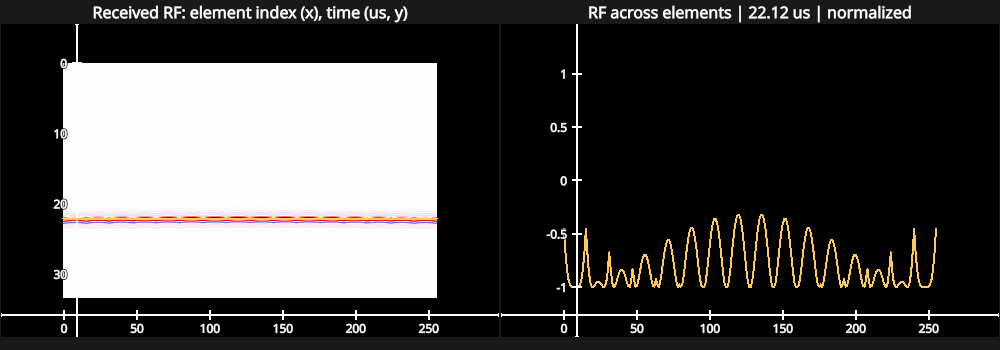
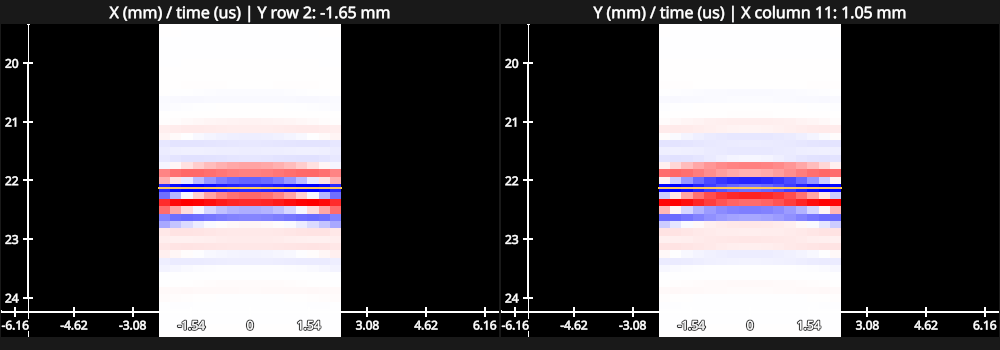
feat: show matrix RF cross-sections with travel-time aspect

diff --git a/examples/_wavefield3d_view.py b/examples/_wavefield3d_view.py
@@ -36,6 +36,7 @@ class WavefieldViewer:
             shape=(3, 2),
             cameras=[camera, "2d", "2d", "2d", "2d", "2d"],
             controller_types=["orbit", "panzoom", "panzoom", "panzoom", "panzoom", "panzoom"],
+            controller_ids=[[0, 1], [2, 3], [4, 4]],
             canvas=canvas or NotebookCanvas(size=(1000, 1050), max_fps=20),
         )
         self.images = []
@@ -153,47 +154,60 @@ class ViewerSlot:
 
 
 class ReceivedRFView:
-    """A fixed-scale channel image and the receive-aperture signal at the current time."""
+    """Orthogonal matrix RF histories with equal lateral and temporal travel-time scales."""
 
-    def __init__(self, image_panel, signal_panel, simulation):
-        self.image_panel, self.signal_panel = image_panel, signal_panel
+    def __init__(self, x_panel, y_panel, simulation):
+        self.panels = (x_panel, y_panel)
         self.times = simulation.rf_times
-        self.rf = np.asarray(simulation.rf / max(float(np.max(np.abs(simulation.rf))), 1e-30), dtype=np.float32)
-        self.elements = np.arange(self.rf.shape[1], dtype=np.float32)
-        image_panel.title = "Received RF: element index (x), time (us, y)"
-        image = image_panel.add_image(self.rf, cmap="bwr", vmin=-1, vmax=1)
-        image.scale = (1, (self.times[1] - self.times[0]) * 1e6, 1)
-        image.offset = (0, self.times[0] * 1e6, 0)
-        self.cursor = image_panel.add_line(
-            np.array([[-0.5, 0, 1], [len(self.elements) - 0.5, 0, 1]], dtype=np.float32),
-            colors="#ffc857",
-            thickness=2,
-        )
-        self.signal = signal_panel.add_line(
-            np.column_stack([self.elements, np.zeros_like(self.elements)]),
-            colors="#ffc857",
-            thickness=2,
-        )
+        nx, ny = simulation.matrix_shape
+        self.sound_speed = simulation.sound_speed
+        peak = max(float(np.max(np.abs(simulation.rf))), 1e-30)
+        self.rf = np.asarray(simulation.rf / peak, dtype=np.float32).reshape(len(self.times), ny, nx)
+        centers = simulation.elements.reshape(ny, nx, 3)
+        self.axes = (centers[0, :, 0], centers[:, 0, 1])
+        self.images, self.cursors, self.bounds = [], [], []
+        for axis, panel in zip(self.axes, self.panels, strict=True):
+            positions = axis / self.sound_speed * 1e6
+            step = positions[1] - positions[0]
+            image = panel.add_image(np.zeros((len(self.times), len(axis)), np.float32), cmap="bwr", vmin=-1, vmax=1)
+            image.scale = (step, (self.times[1] - self.times[0]) * 1e6, 1)
+            image.offset = (positions[0], self.times[0] * 1e6, 0)
+            bounds = (positions[0] - step / 2, positions[-1] + step / 2)
+            cursor = panel.add_line(
+                np.array([[bounds[0], 0, 1], [bounds[1], 0, 1]], dtype=np.float32),
+                colors="#ffc857",
+                thickness=2,
+            )
+            panel.axes.x.tick_format = self.format_mm
+            self.images.append(image)
+            self.cursors.append(cursor)
+            self.bounds.append(bounds)
+        self.select((ny - 1) // 2, (nx - 1) // 2)
+
+    def format_mm(self, value, minimum, maximum):
+        """Label travel-time coordinates with their physical position in millimeters."""
+        return f"{value * self.sound_speed * 1e-3:.4g}"
+
+    def select(self, row, column):
+        """Select a Y row and X column without changing normalization or camera state."""
+        if not 0 <= row < self.rf.shape[1] or not 0 <= column < self.rf.shape[2]:
+            raise ValueError("RF row or column index out of range")
+        self.row, self.column = row, column
+        self.images[0].data = np.ascontiguousarray(self.rf[:, row, :])
+        self.images[1].data = np.ascontiguousarray(self.rf[:, :, column])
+        self.panels[0].title = f"X (mm) / time (us) | Y row {row}: {self.axes[1][row] * 1000:.2f} mm"
+        self.panels[1].title = f"Y (mm) / time (us) | X column {column}: {self.axes[0][column] * 1000:.2f} mm"
 
     def fit(self):
-        """Use independent channel/time scales; RF amplitude stays fixed over playback."""
-        for panel in (self.image_panel, self.signal_panel):
-            panel.camera.maintain_aspect = False
-        self.image_panel.camera.show_rect(-0.5, len(self.elements) - 0.5, 0, self.times[-1] * 1e6)
-        self.signal_panel.camera.local.scale_y = 1
-        self.signal_panel.camera.show_rect(-0.5, len(self.elements) - 0.5, -1.1, 1.1)
+        """Show full histories with shared bounds and an undistorted travel-time aspect."""
+        left = min(bound[0] for bound in self.bounds)
+        right = max(bound[1] for bound in self.bounds)
+        dt = (self.times[1] - self.times[0]) * 1e6
+        for panel in self.panels:
+            panel.camera.maintain_aspect = True
+            panel.camera.show_rect(left, right, self.times[0] * 1e6 - dt / 2, self.times[-1] * 1e6 + dt / 2)
 
     def update(self, time):
-        """Interpolate the displayed channel snapshot; never modify the simulated RF."""
-        index = int(np.searchsorted(self.times, time, side="right"))
-        if time < self.times[0] or time > self.times[-1]:
-            values = np.zeros_like(self.elements)
-        elif index == len(self.times):
-            values = self.rf[-1]
-        else:
-            before = max(0, index - 1)
-            weight = (time - self.times[before]) / (self.times[index] - self.times[before])
-            values = (1 - weight) * self.rf[before] + weight * self.rf[index]
-        self.cursor.data[:, 1] = time * 1e6
-        self.signal.data[:, 1] = values
-        self.signal_panel.title = f"RF across elements | {time * 1e6:.2f} us | normalized"
+        """Move both cursors to the physical playback time in seconds."""
+        for cursor in self.cursors:
+            cursor.data[:, 1] = time * 1e6

diff --git a/tests/test_wavefield3d_view.py b/tests/test_wavefield3d_view.py
@@ -27,12 +27,12 @@ def test_physical_planes_and_canvas_close(monkeypatch):
     index = int(np.argmin(np.abs(simulation.times - 2 * 0.017 / 1540)))
     viewer.update(index)
     time = simulation.times[index]
-    np.testing.assert_allclose(viewer.received.cursor.data[:, 1], time * 1e6)
-    expected = np.array([np.interp(time, simulation.rf_times, channel) for channel in simulation.rf.T])
-    expected /= np.max(np.abs(simulation.rf))
-    np.testing.assert_allclose(viewer.received.signal.data[:, 1], expected, atol=1e-6)
+    for cursor in viewer.received.cursors:
+        np.testing.assert_allclose(cursor.data[:, 1], time * 1e6)
+    before = [np.asarray(image.data[:]).copy() for image in viewer.received.images]
     viewer.configure("total", True, 20, False)
-    np.testing.assert_allclose(viewer.received.signal.data[:, 1], expected, atol=1e-6)
+    for image, expected in zip(viewer.received.images, before, strict=True):
+        np.testing.assert_array_equal(image.data[:], expected)
     canvas.draw()
     assert viewer.figure.export_numpy().shape[-1] == 4
     viewer.close()
@@ -40,3 +40,57 @@ def test_physical_planes_and_canvas_close(monkeypatch):
     notebook_canvas.close()
     notebook_canvas.close()
     assert notebook_canvas.get_closed()
+
+
+@pytest.mark.parametrize("sound_speed", [1480.0, 1540.0])
+def test_matrix_rf_slices_and_time_scaling(monkeypatch, sound_speed):
+    """Non-square channel ordering, physical tick labels and equal projected time scales."""
+    from types import SimpleNamespace
+
+    monkeypatch.setenv("RENDERCANVAS_FORCE_OFFSCREEN", "1")
+    fpl = pytest.importorskip("fastplotlib")
+    from rendercanvas.offscreen import RenderCanvas
+
+    from examples._wavefield3d_view import ReceivedRFView
+
+    nx, ny = 3, 4
+    x, y = np.arange(nx) * 0.0003 - 0.0003, np.arange(ny) * 0.0005 - 0.00075
+    xx, yy = np.meshgrid(x, y)
+    rf = np.arange(5 * nx * ny, dtype=np.float32).reshape(5, ny, nx) - 25
+    original = rf.copy()
+    sim = SimpleNamespace(
+        matrix_shape=(nx, ny),
+        sound_speed=sound_speed,
+        rf=rf.reshape(5, -1),
+        rf_times=np.arange(5) * 1e-6,
+        elements=np.column_stack([xx.ravel(), yy.ravel(), np.zeros(nx * ny)]),
+    )
+    canvas = RenderCanvas(size=(800, 400))
+    figure = fpl.Figure(shape=(1, 2), canvas=canvas, controller_ids="sync")
+    view = ReceivedRFView(figure[0, 0], figure[0, 1], sim)
+    figure.show()
+    view.fit()
+    assert (view.row, view.column) == (1, 1)
+    view.select(3, 0)
+    canvas.draw()
+    canvas.draw()  # Axes margins settle after the first text layout.
+    peak = np.max(np.abs(rf))
+    np.testing.assert_array_equal(view.images[0].data[:], rf[:, 3, :] / peak)
+    np.testing.assert_array_equal(view.images[1].data[:], rf[:, :, 0] / peak)
+    for axis, image, panel in zip((x, y), view.images, figure, strict=True):
+        for i, position in enumerate(axis):
+            world = image.world_object.world.matrix @ [i, 2, 0, 1]
+            np.testing.assert_allclose(world[:2], [position / sound_speed * 1e6, 2], atol=1e-6)
+        assert float(panel.axes.x.tick_format(1, -1, 1)) == sound_speed * 1e-3
+        matrix = panel.camera.camera_matrix
+        width, height = panel.viewport.logical_size
+        np.testing.assert_allclose(abs(matrix[0, 0]) * width, abs(matrix[1, 1]) * height, rtol=1e-6)
+    view.update(2.5e-6)
+    for cursor in view.cursors:
+        np.testing.assert_allclose(cursor.data[:, 1], 2.5)
+    for row, column in [(-1, 0), (ny, 0), (0, nx)]:
+        with pytest.raises(ValueError, match="index"):
+            view.select(row, column)
+    np.testing.assert_array_equal(rf, original)
+    canvas.draw()
+    canvas.close()

diff --git a/examples/_wavefield3d.py b/examples/_wavefield3d.py
@@ -101,6 +101,8 @@ class Simulation:
     backend: str
     rf: np.ndarray
     rf_times: np.ndarray
+    matrix_shape: tuple[int, int]
+    sound_speed: float
 
 
 def simulate(config, progress=None, cancelled=None):
@@ -108,8 +110,9 @@ def simulate(config, progress=None, cancelled=None):
     start = perf_counter()
     xp = namespace(config["backend"])
     fc = 2e6
+    medium = fs.MediumParams()
     # Physical Nyquist spacing for the retained grid up to 2*fc; preview is explicit.
-    spacing = 1540 / (4 * fc) * config.get("spacing_factor", 1)
+    spacing = medium.speed_of_sound / (4 * fc) * config.get("spacing_factor", 1)
     nx = max(3, int(np.ceil(0.008 / spacing)) + 1)
     nz = max(3, int(np.ceil(0.024 / spacing)) + 1)
     nx += (nx + 1) % 2
@@ -141,6 +144,7 @@ def simulate(config, progress=None, cancelled=None):
         strengths,
         delays,
         probe,
+        medium,
         execution=fs.ExecutionOptions(128 * 1024 * 1024),
         frequency_step=1.0,
     )
@@ -153,7 +157,7 @@ def simulate(config, progress=None, cancelled=None):
             progress(component, 0, len(slices.points))
         frames = np.empty((len(slices.points), len(times)), np.float32)
         iterator = fs.iter_scattered_pfield_spectrum(
-            observers, sources, strengths, delays, plan, probe, component=component, cancelled=cancelled
+            observers, sources, strengths, delays, plan, probe, medium, component=component, cancelled=cancelled
         )
         for block in iterator:
             if cancelled is not None and cancelled():
@@ -173,10 +177,11 @@ def simulate(config, progress=None, cancelled=None):
             strengths,
             delays,
             probe,
+            medium,
             frequency_step=1.0,
             execution=fs.ExecutionOptions(128 * 1024 * 1024),
         )
-        rf = host(fs.simus_compute(sources, strengths, delays, rf_plan, probe).rf)
+        rf = host(fs.simus_compute(sources, strengths, delays, rf_plan, probe, medium).rf)
         rf_times = host(rf_plan.sample_times)
         workspace_bytes = max(workspace_bytes, rf_plan.estimated_workspace_bytes)
     else:
@@ -198,4 +203,6 @@ def simulate(config, progress=None, cancelled=None):
         config["backend"],
         rf,
         rf_times,
+        (side, side),
+        medium.speed_of_sound,
     )

diff --git a/examples/wavefield_3d_explorer.py b/examples/wavefield_3d_explorer.py
@@ -165,6 +165,30 @@ def _(mo, simulation):
 
 
 @app.cell
+def _(mo, simulation):
+    _nx, _ny = simulation.matrix_shape
+    _centers = simulation.elements.reshape(_ny, _nx, 3)
+    rf_row = mo.ui.dropdown(
+        {f"{i}: y = {_centers[i, 0, 1] * 1000:.2f} mm": i for i in range(_ny)},
+        value=f"{(_ny - 1) // 2}: y = {_centers[(_ny - 1) // 2, 0, 1] * 1000:.2f} mm",
+        label="RF Y row (X-directed)",
+    )
+    rf_column = mo.ui.dropdown(
+        {f"{i}: x = {_centers[0, i, 0] * 1000:.2f} mm": i for i in range(_nx)},
+        value=f"{(_nx - 1) // 2}: x = {_centers[0, (_nx - 1) // 2, 0] * 1000:.2f} mm",
+        label="RF X column (Y-directed)",
+    )
+    mo.hstack([rf_row, rf_column], wrap=True)
+    return rf_column, rf_row
+
+
+@app.cell
+def _(rf_column, rf_row, viewer):
+    viewer.received.select(rf_row.value, rf_column.value)
+    return
+
+
+@app.cell
 def _(component, gain, geometry, magnitude, mo, playing, time_control, viewer):
     viewer.playing = playing.value
     viewer.configure(component.value, magnitude.value, gain.value, geometry.value)
@@ -173,8 +197,10 @@ def _(component, gain, geometry, magnitude, mo, playing, time_control, viewer):
     mo.md(
         f"Showing {viewer.displayed_scatterers:,} of {len(viewer.simulation.scatterers):,} scatterer markers. "
         "Each component uses its own fixed peak scale over the full movie; gain is display-only. "
-        "RF stays signed with its own fixed scale; the yellow cursor follows the same physical time. "
-        "Receive channels are flattened in aperture element order."
+        "Both RF cross-sections share a fixed signed amplitude scale and follow playback. "
+        "Lateral ticks are millimeters; vertical ticks are microseconds. "
+        "Equal screen distances represent equal travel times (position divided by sound speed). "
+        "Pan and zoom are linked between the RF panels."
     )
     return
 

diff --git a/docs/scattered-wavefields.md b/docs/scattered-wavefields.md
@@ -22,16 +22,25 @@ finishes before a pending cancellation is applied.
 
 ## Received RF during playback
 
-The bottom-left panel shows signed received RF with flattened element index on the horizontal axis and time in
-microseconds on the vertical axis. Its yellow cursor follows wavefield playback. The bottom-right panel shows the
-instantaneous signal across all receive elements, interpolated onto the same physical time. Both views use one fixed RF
-peak scale; pressure component, magnitude, and gain controls do not change RF values or rerun the simulation.
+The bottom-left image shows RF along X at a selected Y row; the bottom-right image shows RF along Y at a selected X
+column. Choose either cross-section below the viewer without rerunning the simulation. Selectors and panel titles show
+zero-based indices and physical coordinates. The default is the lower-index central row and column (index 7 for 16×16).
+
+Horizontal ticks label element positions in millimeters; vertical ticks label time in microseconds. Rendering uses
+position divided by the simulation sound speed, so equal horizontal and vertical screen distances represent equal travel
+times: at 1540 m/s, 1.54 mm horizontally spans the same distance as 1 microsecond vertically. Full histories can
+therefore appear narrow. Pan and zoom are linked between the RF panels and preserve this aspect ratio.
+
+Both images use one fixed RF peak scale across all channels and times. Their yellow cursors follow wavefield playback.
+Pressure component, magnitude, and gain controls do not change RF values or rerun the simulation.
 
 RF is computed with the finite receive-element model, including its receive directivity and probe response. It is not
 pressure sampled at element centers. The point scene provides a clear round-trip echo; the no-scatterer scene has zero
 RF.
 
-![Received RF at the point-target echo](assets/3d-received-rf.png)
+The example below is zoomed around the point-target echo; both panels retain equal travel-time scaling.
+
+![Orthogonal received RF cross-sections at the point-target echo](assets/3d-received-rf.png)
 
 ## Pressure at arbitrary points
 
